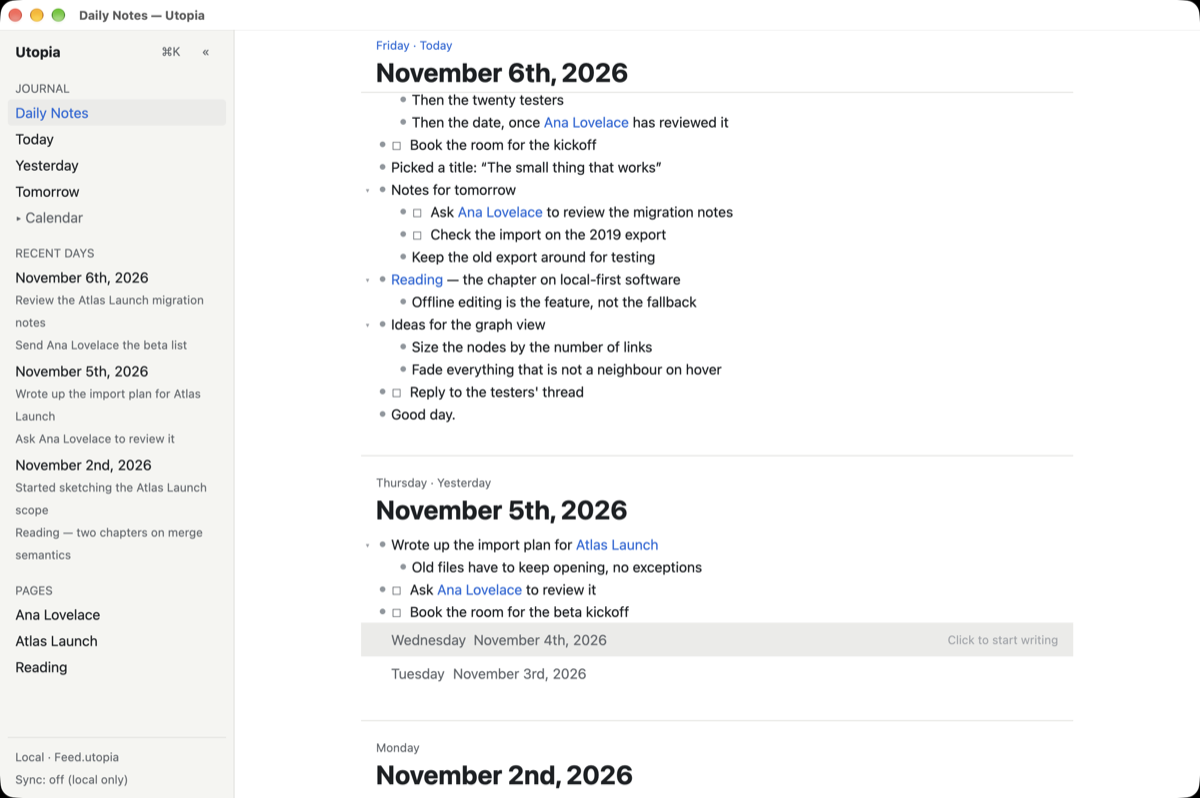
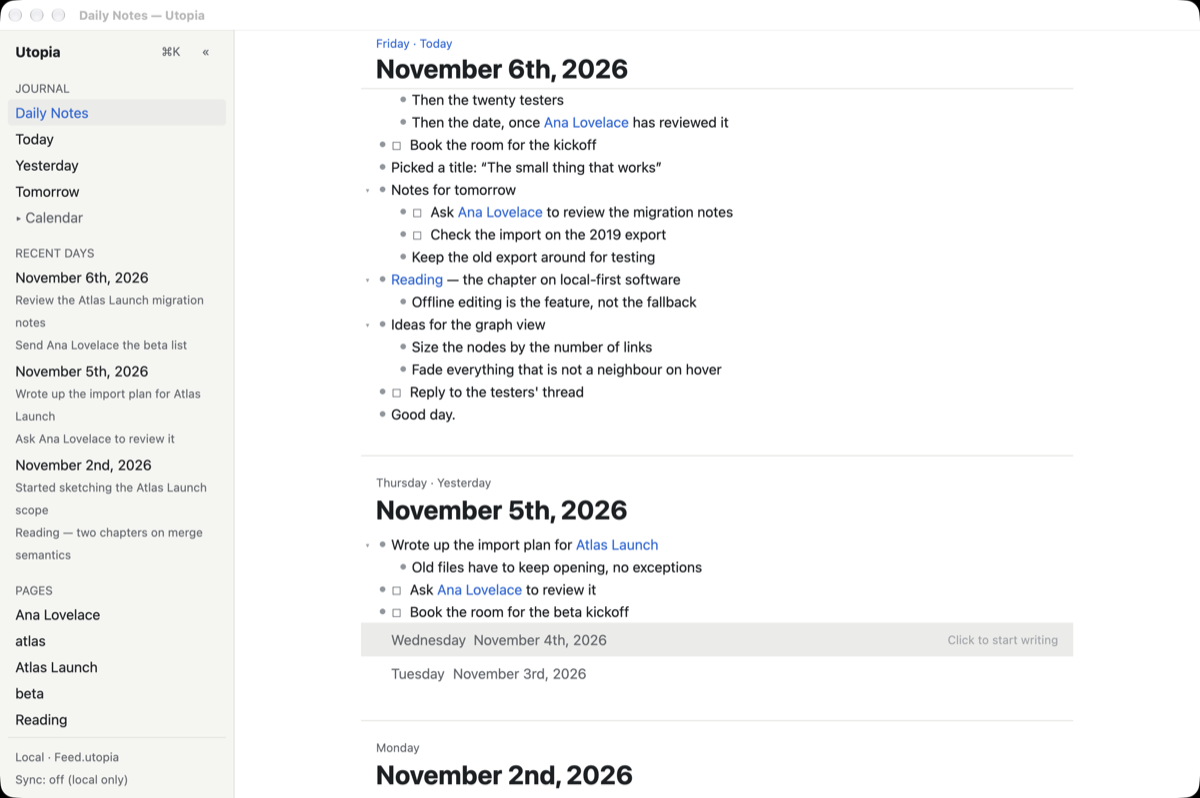
Keep a revealed row below the pinned day heading

Changed region(s): [[0.3083, 0.0301, 0.5242, 0.1203], [0.0, 0.782, 0.0925, 0.9323], [0.0, 0.0, 0.185, 0.0301]]

diff --git a/crates/utopia-ui/src/page_view.rs b/crates/utopia-ui/src/page_view.rs
@@ -6,8 +6,8 @@ use std::collections::{BTreeMap, HashMap, HashSet};
 use chrono::NaiveDate;
 use gpui::{
     anchored, deferred, div, list, point, prelude::*, px, AnyElement, Context, Corner, Entity,
-    EventEmitter, FocusHandle, Focusable, ListAlignment, ListState, MouseButton, MouseDownEvent,
-    SharedString, StyledText, Subscription, Window,
+    EventEmitter, FocusHandle, Focusable, ListAlignment, ListOffset, ListState, MouseButton,
+    MouseDownEvent, SharedString, StyledText, Subscription, Window,
 };
 use utopia_core::inline::{extract_refs, plain_text};
 use utopia_core::outline::{self, Focus, Plan};
@@ -34,6 +34,9 @@ const GROUP_PREVIEW: usize = 3;
 const JOURNAL_BATCH: usize = 10;
 /// Widest the page column gets (about 95 characters of body text per line).
 const READABLE_WIDTH: f32 = 760.;
+/// Height of the pinned day heading (DN-3), fixed so that revealing a row can leave room
+/// for it: its padding, the caption line, the date line and the hairline.
+const STICKY_HEIGHT: f32 = 4. + 20. + 34. + 4. + 1.;
 
 #[derive(Debug, Clone)]
 pub enum PageViewEvent {
@@ -525,8 +528,25 @@ impl PageView {
         self.splice_items(self.items.len(), cx);
         if let Some(ix) = self.row_index(&block) {
             self.list.scroll_to_reveal_item(ix);
+            self.leave_room_for_the_pinned_day(ix);
         }
         cx.notify();
+    }
+
+    /// DN-3: an edit target above the viewport is revealed at the list's top edge, where
+    /// the pinned day heading would cover it and its caret. Put the row one heading-height
+    /// down instead, so the caret shows below the pin (the strip above it is the pin).
+    fn leave_room_for_the_pinned_day(&self, ix: usize) {
+        let top = self.list.logical_scroll_top();
+        if top.item_ix != ix || top.offset_in_item > px(0.) {
+            return;
+        }
+        if self.sticky_heading().is_some() {
+            self.list.scroll_to(ListOffset {
+                item_ix: ix,
+                offset_in_item: -px(STICKY_HEIGHT),
+            });
+        }
     }
 
     fn row_index(&self, block: &BlockId) -> Option<usize> {
@@ -3050,6 +3070,7 @@ impl Render for PageView {
                                 .debug_selector(|| "sticky-day".into())
                                 .w_full()
                                 .max_w(px(READABLE_WIDTH))
+                                .h(px(STICKY_HEIGHT))
                                 .px_4()
                                 .pt_1()
                                 .pb_1()
@@ -3059,6 +3080,7 @@ impl Render for PageView {
                                 .child(
                                     div()
                                         .text_size(px(crate::theme::CAPTION_SIZE))
+                                        .line_height(px(20.))
                                         .text_color(if h.today { th.accent } else { th.muted })
                                         .child(h.caption.clone()),
                                 )

diff --git a/crates/utopia-ui/tests/layout.rs b/crates/utopia-ui/tests/layout.rs
@@ -367,6 +367,44 @@ fn long_day_keeps_its_date_at_the_top(cx: &mut TestAppContext) {
     );
 }
 
+/// DN-3: a row that the list reveals at its top edge (arrowing past the viewport) must
+/// sit below the pinned date, so the caret is never hidden under it while typing.
+#[gpui::test]
+fn revealing_a_row_keeps_the_caret_below_the_pinned_date(cx: &mut TestAppContext) {
+    let (ws, cx) = setup_feed(cx, &[(0, 80)], H);
+    // `setup_feed` leaves editing; open the feed again with the caret in the first block.
+    ws.update_in(cx, |w, window, cx| w.open_journal(window, cx));
+    cx.run_until_parked();
+    for _ in 0..30 {
+        cx.simulate_keystrokes("down");
+    }
+    cx.run_until_parked();
+    // Scroll the day far past the block being edited: the next Down moves to a block above
+    // the viewport, which the list reveals at its top edge, where the pinned date is drawn.
+    // Each wheel step only reaches what the list has measured so far, so repeat.
+    for _ in 0..10 {
+        scroll_main(cx, -600.);
+    }
+    cx.simulate_keystrokes("down");
+    cx.run_until_parked();
+    // The 31st block (item 32, after the day's heading) is the one now being edited.
+    assert_eq!(
+        ws.update(cx, |w, cx| w.editor().read(cx).field_text().to_string()),
+        "note 30"
+    );
+    assert_eq!(
+        ws.update(cx, |w, cx| w.main_sticky_day(cx)),
+        Some(NaiveDate::from_ymd_opt(2026, 11, 2).unwrap()),
+        "the day's date is still pinned"
+    );
+    let pin = bounds(cx, "sticky-day");
+    let row = bounds(cx, "content-32");
+    assert!(
+        row.origin.y >= pin.origin.y + pin.size.height - px(0.5),
+        "the row being edited stays below the pinned date: row {row:?}, pin {pin:?}"
+    );
+}
+
 /// DN-3 with DN-1: a folded day carries its own date in its 36 px row, so the previous
 /// day's heading is not pinned over it.
 #[gpui::test]

diff --git a/docs/verification/redesign-02-daily-notes/README.md b/docs/verification/redesign-02-daily-notes/README.md
@@ -9,6 +9,7 @@ The source changes are covered by `crates/utopia-ui/tests/layout.rs`,
 - `day_captions_name_the_weekday_and_the_neighbours` (DN-2, the caption text)
 - `long_day_keeps_its_date_at_the_top` (DN-3, the pinned heading)
 - `a_folded_day_does_not_keep_the_previous_day_pinned` (DN-3 with DN-1)
+- `revealing_a_row_keeps_the_caret_below_the_pinned_date` (DN-3, keyboard navigation)
 - `opening_the_page_menu_does_not_move_the_title` etc. still pass unchanged
 
 ## Captures
@@ -40,12 +41,18 @@ step used for the hover-only hint.
 | `after-feed-top.png` | Today's caption "Friday · Today" sits above the 28 px date in the accent colour (DN-2), and nothing is pinned at the top of the feed. |
 | `after-feed-sticky.png` | Scrolled into the tail of today: its caption and date stay pinned at the top of the column with a hairline under them (DN-3), while yesterday's open day and the folded days scroll beneath. |
 | `after-feed-folded-hover.png` | Empty days after today and yesterday are one 36 px row each — "Wednesday  November 4th, 2026" and "Tuesday  November 3rd, 2026" in the muted colour — and the row under the pointer shows the faint "Click to start writing" hint (DN-1). |
+| `after-feed-reveal.png` | After arrowing down the day and scrolling past the caret, the revealed row ("Reply to the testers' thread", accent bar and caret at its left) sits **below** the pinned date instead of under it. |
 
 Verified by eye: the captions name the right weekdays for the seeded dates, today's
 caption is the accent colour while the others are muted, the folded rows are 36 px
 and stack without rules, the hint appears only on the hovered row, the pinned date
 covers the rows underneath it and stays inside the 760 px column, and no text
 overflows or clips. Text left of the pin is the feed's own rows (not duplication).
+
+The pin's height is a constant (`STICKY_HEIGHT` in `page_view.rs`, with explicit line
+heights for its two lines), because `PageView::edit` offsets a revealed row by exactly
+that much: a row the list reveals at its top edge shows one heading-height down, below
+the pin, so the caret is never hidden while typing.
 
 Not captured: dark mode (the system appearance was left unchanged) and Compact
 density (the folded row is a fixed 36 px row by design; the rest of the feed keeps
